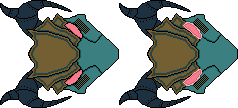
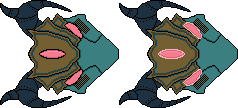
Tweak snake select arrow positioning, updated flip snake sprite

Changed region(s): [[0.6471, 0.4444, 0.7941, 0.5556], [0.1471, 0.4444, 0.2941, 0.5556]]

diff --git a/Sneks/src/Systems/Menus/SnekSelectMenuSystem.cpp b/Sneks/src/Systems/Menus/SnekSelectMenuSystem.cpp
@@ -104,11 +104,10 @@ void SnekSelectMenuSystem::Initialize()
 
 	Events::EV_NEW_UI_ELEMENT LogoElement = { canvasComponent,HTVector2{ 0.3f ,0.2f } ,kCanvasBasicSprite,"Logo" ,"Select-Banner" ,"","","", nullptr };
 	Events::EV_NEW_UI_ELEMENT P1UpElement = { canvasComponent,HTVector2{ 0.175f , 0.5f } ,kCanvasButton,"P1Up" ,"Up-Idle" ,"","Up-Hover","Up-Click",P1SnekStateUp };
-	Events::EV_NEW_UI_ELEMENT P1DownElement = { canvasComponent,HTVector2{ 0.175f , 0.6125f } ,kCanvasButton,"P1Down" ,"Down-Idle", "" ,"Down-Hover","Down-Click",P1SnekStateDown };
+	Events::EV_NEW_UI_ELEMENT P1DownElement = { canvasComponent,HTVector2{ 0.175f , 0.655f } ,kCanvasButton,"P1Down" ,"Down-Idle", "" ,"Down-Hover","Down-Click",P1SnekStateDown };
 	Events::EV_NEW_UI_ELEMENT P2UpElement = { canvasComponent,HTVector2{ 0.825f , 0.5f } ,kCanvasButton,"P2Up" ,"Up-Idle", "","Up-Hover","Up-Click",P2SnekStateUp };
-	Events::EV_NEW_UI_ELEMENT P2DownElement = { canvasComponent, HTVector2{ 0.825f , 0.6125f }, kCanvasButton,"P2Down", "Down-Idle", "", "Down-Hover","Down-Click", P2SnekStateDown };
+	Events::EV_NEW_UI_ELEMENT P2DownElement = { canvasComponent, HTVector2{ 0.825f , 0.655f }, kCanvasButton,"P2Down", "Down-Idle", "", "Down-Hover","Down-Click", P2SnekStateDown };
 	Events::EV_NEW_UI_ELEMENT ConfirmElement = { canvasComponent, HTVector2{ 0.5f , 0.9f }, kCanvasButton,"Confirm", "Confirm-Idle", "", "Confirm-Hover","", PlayGame };
-	
 
 	m_po_EventManagerPtr->EmitEvent<Events::EV_NEW_UI_ELEMENT>(LogoElement);
 	m_po_EventManagerPtr->EmitEvent<Events::EV_NEW_UI_ELEMENT>(P1UpElement);

diff --git a/Sneks/src/Systems/SnekSystem.cpp b/Sneks/src/Systems/SnekSystem.cpp
@@ -135,21 +135,6 @@ void SnekSystem::CheckGrowthMeters()
 				switch (snekHead->m_x_SnekType)
 				{
 				case kSnekTypeFlip:
-					bodyTexture = "P1FlipSnekBody";
-					break;
-				case kSnekTypeShoot:
-					bodyTexture = "P1ShootSnekBody";
-					break;
-				case kSnekTypeSpeed:
-					bodyTexture = "P1SpeedSnekBody";
-					break;
-				}
-			}
-			else
-			{
-				switch (snekHead->m_x_SnekType)
-				{
-				case kSnekTypeFlip:
 					bodyTexture = "P2FlipSnekBody";
 					break;
 				case kSnekTypeShoot:
@@ -157,6 +142,21 @@ void SnekSystem::CheckGrowthMeters()
 					break;
 				case kSnekTypeSpeed:
 					bodyTexture = "P2SpeedSnekBody";
+					break;
+				}
+			}
+			else // player 1
+			{
+				switch (snekHead->m_x_SnekType)
+				{
+				case kSnekTypeFlip:
+					bodyTexture = "P1FlipSnekBody";
+					break;
+				case kSnekTypeShoot:
+					bodyTexture = "P1ShootSnekBody";
+					break;
+				case kSnekTypeSpeed:
+					bodyTexture = "P1SpeedSnekBody";
 					break;
 				}
 			}
